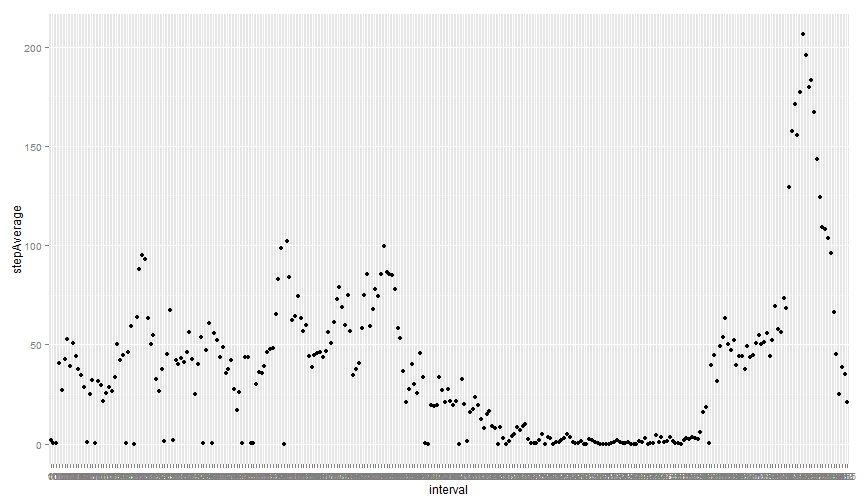
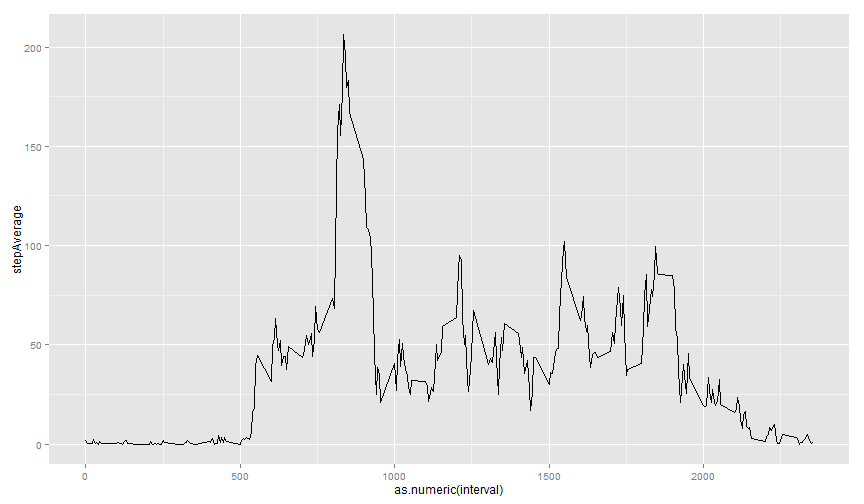
last push

diff --git a/PA1_template.html b/PA1_template.html
@@ -244,10 +244,10 @@ for (i in 1:length(levels(data$interval))) {
         levels(data$interval)[i]), na.rm = TRUE)
     stepsIntervalAverage$interval[i] &lt;- levels(data$interval)[i]
 }
-qplot(interval, stepAverage, data = stepsIntervalAverage)
+qplot(as.numeric(interval), stepAverage, data = stepsIntervalAverage, geom = &quot;line&quot;)
 </code></pre>
 
[2 lines of base64/hex data omitted]
 
 <pre><code class="r">
 maximInterval &lt;- stepsIntervalAverage$interval[which.max(stepsIntervalAverage$stepAverage)]
@@ -263,7 +263,9 @@ maximInterval &lt;- stepsIntervalAverage$interval[which.max(stepsIntervalAverage
 
 <h2>Imputing missing values</h2>
 
-<pre><code class="r">naNumbers &lt;- nrow(subset(data, is.na(data$steps) == TRUE))
+<pre><code class="r">naData &lt;- subset(data, is.na(data$steps) == TRUE)
+naNumbers &lt;- nrow(naData)
+naRows &lt;- as.numeric(row.names(naData))
 </code></pre>
 
 <p>The total number of missing values in the dataset is:</p>
@@ -274,7 +276,97 @@ maximInterval &lt;- stepsIntervalAverage$interval[which.max(stepsIntervalAverage
 <pre><code>## [1] 2304
 </code></pre>
 
+<p>Here is my strategy for missing values: I assume the steps across days are distributed normally. The calculation steps are:</p>
+
+<p>First, i obtain the mean and variance of the steps across 61 same intervals in different days .</p>
+
+<p>Second, i generate 200 random values using normal distribution whose parameters are calculated by last step in the same interval. </p>
+
+<p>Third, calculate the mean of the 200 random values and take the nearest integer as the missing value.</p>
+
+<p>The new dataset without NAs I created is call &ldquo;dataNoNA&rdquo;.</p>
+
+<pre><code class="r">dataNoNA &lt;- data
+set.seed(8888)
+for (n in naRows) {
+    meanNA &lt;- mean(subset(data$steps, data$interval == data$interval[n]), na.rm = TRUE)
+    sdNA &lt;- sd(subset(data$steps, data$interval == data$interval[n]), na.rm = TRUE)
+    replaceNA &lt;- round(mean(rnorm(200, mean = meanNA, sd = sdNA)))
+    dataNoNA$steps[n] = replaceNA
+}
+</code></pre>
+
+<p>Creat the histgram and calculte the mean and median</p>
+
+<pre><code class="r">stepsDaySum &lt;- data.frame(stepSums = rep(0, length(levels(dataNoNA$date))), 
+    day = &quot;2000-1-1&quot;, stringsAsFactors = FALSE)
+for (i in 1:length(levels(dataNoNA$date))) {
+    stepsDaySum$stepSums[i] &lt;- sum(subset(dataNoNA$steps, dataNoNA$date == levels(dataNoNA$date)[i]), 
+        na.rm = TRUE)
+    stepsDaySum$day[i] &lt;- levels(dataNoNA$date)[i]
+}
+qplot(stepSums, data = stepsDaySum)
+</code></pre>
+
+<pre><code>## stat_bin: binwidth defaulted to range/30. Use &#39;binwidth = x&#39; to adjust this.
+</code></pre>
+
[1 lines of base64/hex data omitted]
+
+<pre><code class="r">meanStepsSumDay &lt;- mean(stepsDaySum$stepSums, na.rm = TRUE)
+medianStepsSumDay &lt;- median(stepsDaySum$stepSums, na.rm = TRUE)
+</code></pre>
+
+<p>The mean value is:</p>
+
+<pre><code class="r">meanStepsSumDay
+</code></pre>
+
+<pre><code>## [1] 10769
+</code></pre>
+
+<p>The median value is :</p>
+
+<pre><code class="r">medianStepsSumDay
+</code></pre>
+
+<pre><code>## [1] 10765
+</code></pre>
+
+<p>They are different from the previewsly calculated numbers. The impact of filling the missing value is increasing the mean and median and decreasing the number of average steps took per day around zero. </p>
+
 <h2>Are there differences in activity patterns between weekdays and weekends?</h2>
+
+<pre><code class="r">dataWeekdays &lt;- data.frame(data, weeksday = weekdays(as.Date(data$date)))
+dataWeekdays$weeksday &lt;- as.character(dataWeekdays$weeksday)
+for (n in 1:nrow(dataWeekdays)) {
+    if (dataWeekdays$weeksday[n] == &quot;星期六&quot; || dataWeekdays$weeksday[n] == 
+        &quot;星期日&quot;) 
+        dataWeekdays$weeksday[n] = &quot;weekend&quot; else dataWeekdays$weeksday[n] = &quot;weekday&quot;
+}
+dataWeekdays$weeksday &lt;- as.factor(dataWeekdays$weeksday)
+</code></pre>
+
+<pre><code class="r">stepsIntervalAverage &lt;- data.frame(stepAverage = rep(0, length(levels(dataWeekdays$weeksday)) * 
+    length(levels(dataWeekdays$interval))), interval = &quot;0&quot;, weeksday = &quot;星期一&quot;, 
+    stringsAsFactors = FALSE)
+for (j in 1:length(levels(dataWeekdays$weeksday))) {
+    for (i in 1:length(levels(dataWeekdays$interval))) {
+        index = (j - 1) * length(levels(dataWeekdays$interval)) + i
+        stepsIntervalAverage$stepAverage[index] &lt;- mean(subset(dataWeekdays$steps, 
+            dataWeekdays$interval == levels(dataWeekdays$interval)[i] &amp; dataWeekdays$weeksday == 
+                levels(dataWeekdays$weeksday)[j]), na.rm = TRUE)
+        stepsIntervalAverage$interval[index] &lt;- levels(dataWeekdays$interval)[i]
+        stepsIntervalAverage$weeksday[index] &lt;- levels(dataWeekdays$weeksday)[j]
+    }
+}
+
+
+qplot(as.numeric(interval), stepAverage, data = stepsIntervalAverage, facets = weeksday ~ 
+    ., geom = &quot;line&quot;)
+</code></pre>
+
[1 lines of base64/hex data omitted]
 
 </body>
 
